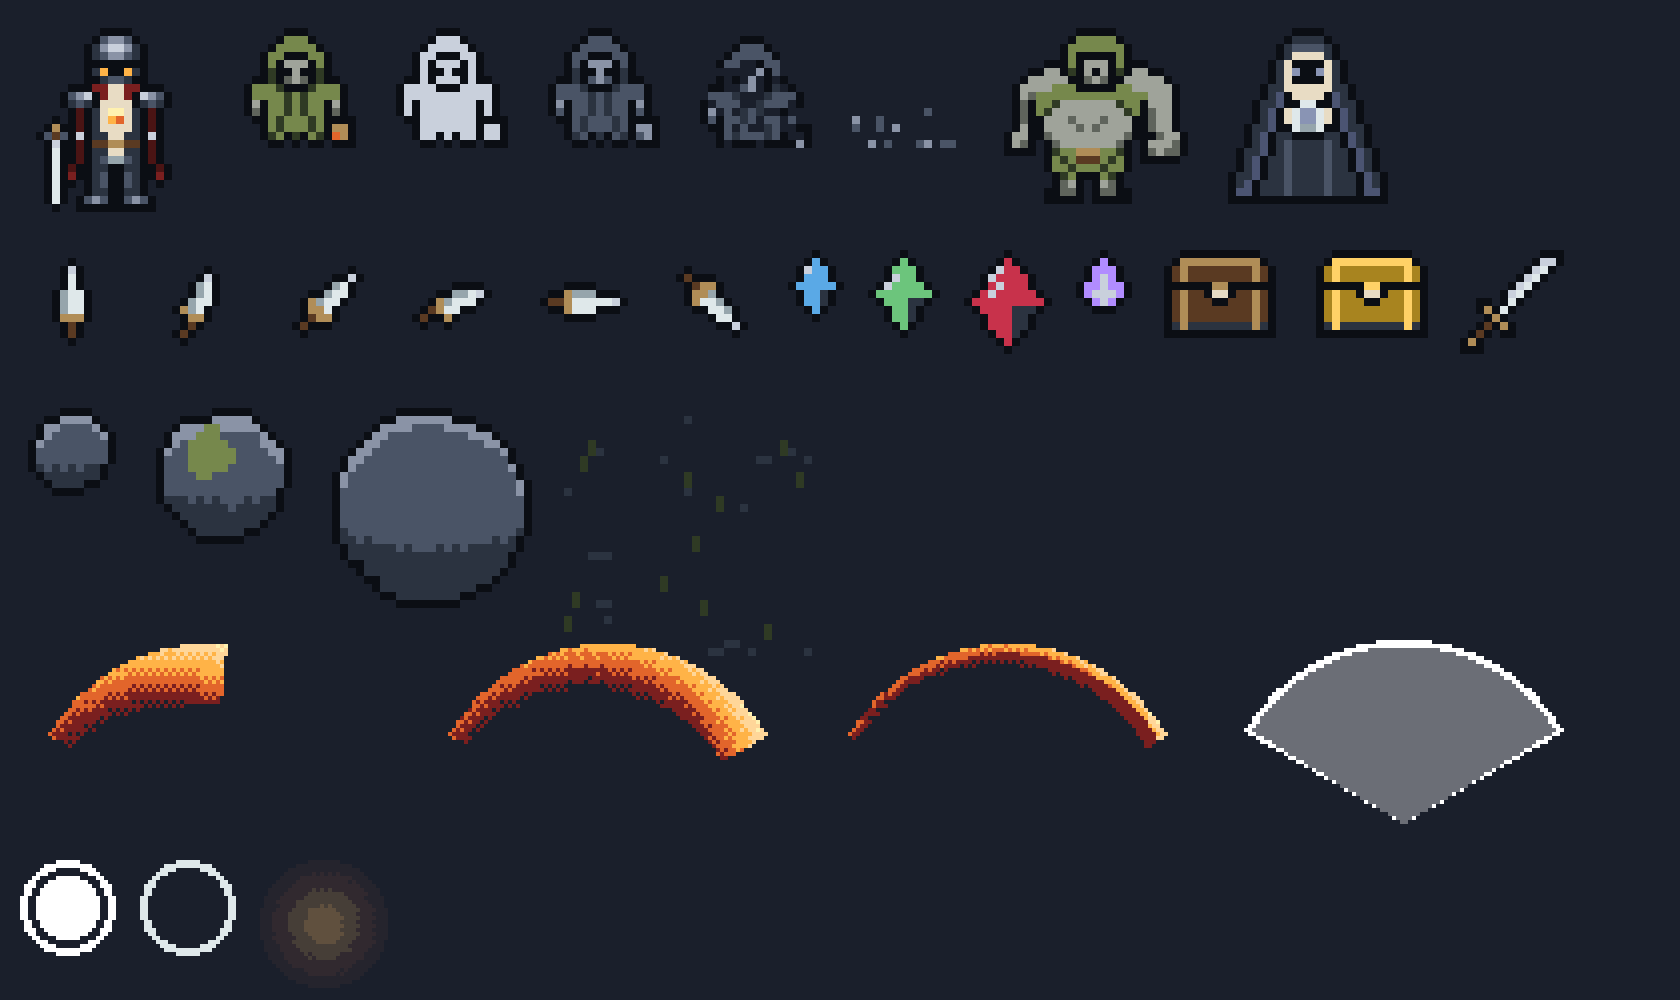
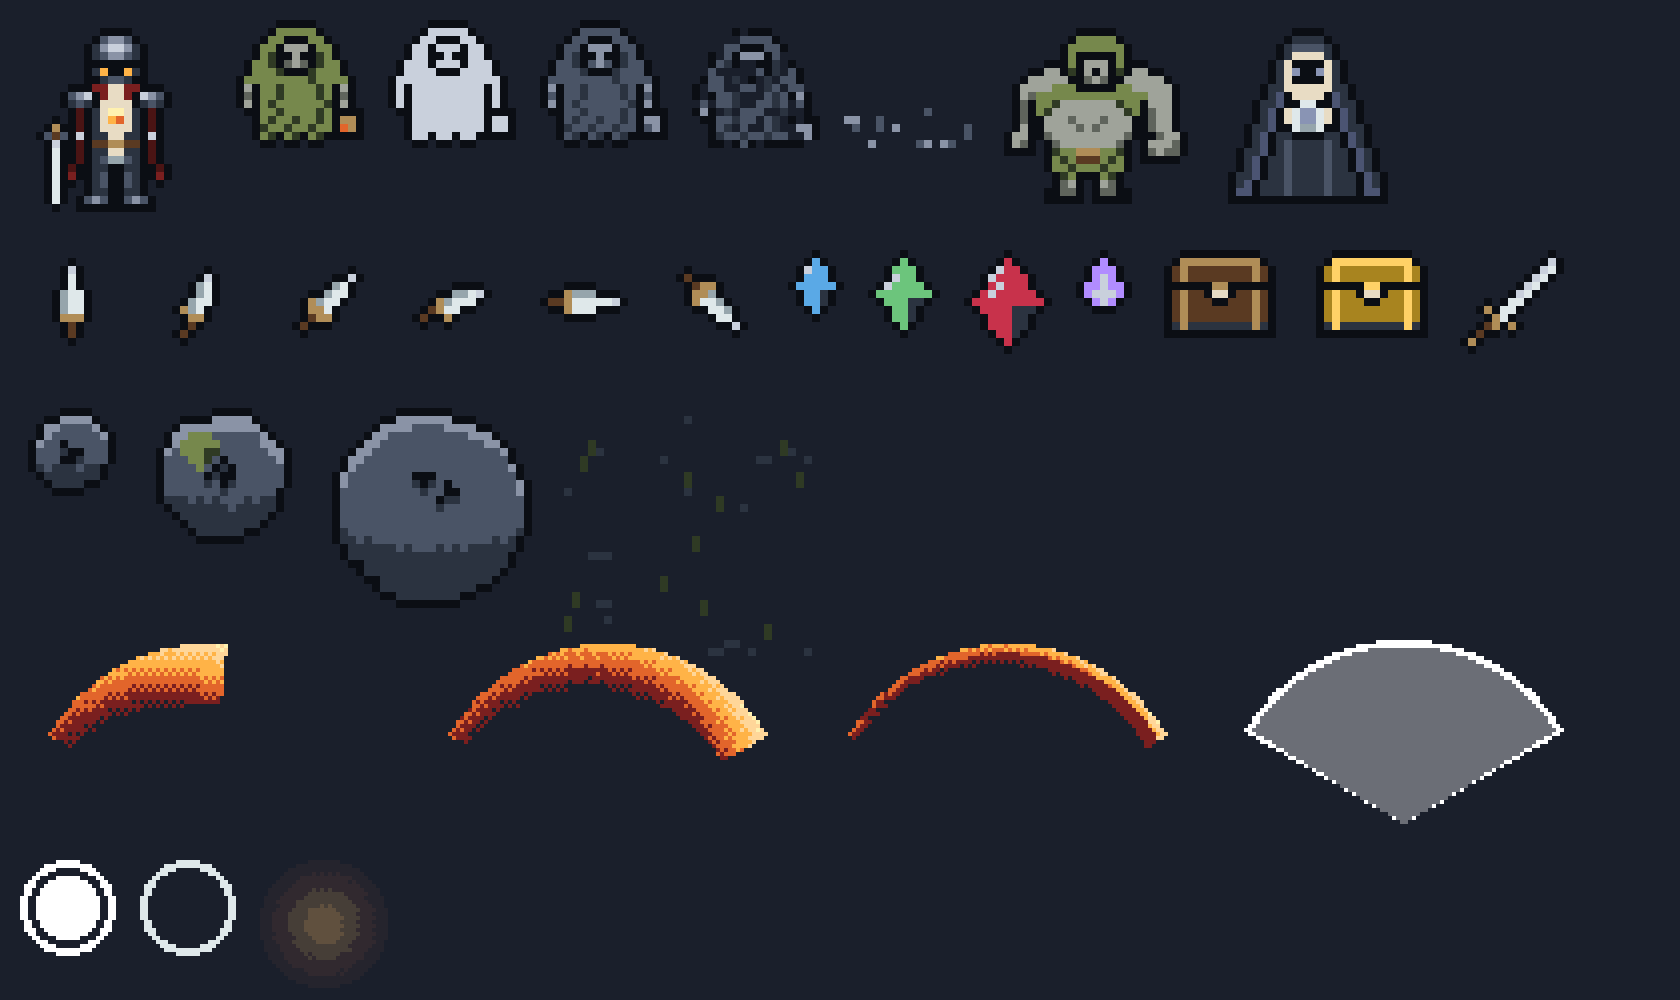
F-011 etapa 2: notas da produção no style card, amostras regeradas com a arte final e as capturas provisórias das cenas
Claude-Session: https://claude.ai/code/session_01W38UpsKkbYVQowxztRRzy8

diff --git a/design/arte/style-card.md b/design/arte/style-card.md
@@ -157,3 +157,20 @@ Geradas por `node scripts/arte/rodar.mjs amostras` a partir das grades e procedu
 - Grades e procedurais em `src/arte/` (sem Phaser, sem DOM); o Boot rasteriza tudo num `CanvasTexture` de 1024 × 1024 com `putImageData` e registra as molduras, como o atlas de formas de hoje (`src/cenas/render/atlas.ts`).
 - O render troca a moldura e o tint branco pela moldura do quadro certo; a horda (SpriteGPULayer) continua num lote só.
 - Só apresentação: nada em `src/logica`, no layout do estado nem nos hashes; textos só por `t(id)`.
+
+## 11. Notas da produção (etapa 2)
+
+O que a produção detalhou ou mudou em relação ao card aprovado, e por quê:
+
+- **Círculo de Sal e pulso em grãos de sal**, não num anel liso: o raio da aura e do pulso varia sem parar (nível, passivas, o pulso crescendo 96 pt), e um anel de pixel por raio não cabe no atlas. São cristais de 3 e 2 px com contorno (10 e 8 pt), um a cada 10 pt da circunferência (até 64 por anel), girando devagar, numa camada própria abaixo das facas e dos golpes.
+- **Brilho do telegrafo nos médios (RE4)**: o corpo troca para o quadro de "inspirar" e uma silhueta branca do mesmo quadro fica por cima com alfa 1 − blend. O modo de tint SCREEN não serve: no SpriteGPULayer do Phaser 4.2.1 o modo é multiplicado por 255 no shader sem ter sido dividido antes.
+- **NEAREST depois do `refresh()`**: o Phaser reenvia o canvas com LINEAR a cada refresh (antialias ligado). Com o filtro certo, os modos GPU e Image saem idênticos pixel a pixel.
+- **Inimigos olham para o lado do Aldric** (a horda persegue): a regra depende só do estado do passo, então a imagem pausada não depende de quantos quadros o render desenhou.
+- **Oco Grande Coroado** (elite que a F-008 fez nascer nesta branch): 32 × 32 px (64 pt), o Oco Grande maior, de coroa de bronze, com andar, telegrafo e ataque. A cor de identidade é a dos elites da F-008 (`COR_DOS_ELITES`); o molde provisório dela continua valendo só para elite sem arte.
+- **Golpe e estocada em escala livre pelo alcance** (raio ÷ 64 pt; comprimento ÷ 96 pt): o único lugar com escala não inteira, num efeito que dura 8 passos; o ângulo segue a regra dos 16 passos.
+- **Partículas**: pool de 256 pelo passo (sem alocar e sem reciclar), pontos de 1 e 2 pt tingidos na cor exata da paleta: 3 faíscas Y/A por acerto da Espada e da Lâmina, 2 lascas S/H das Facas, 1 grão do Círculo, 4 grãos de cinza por morte, 10 faíscas em anel no aparo e uma brasa subindo a cada 5 passos do Frasco (a cada 2 no Apagar).
+- **Marcadores de status**: a estrela do atordoado a 2 pt por px; o cristal do Sal na grade fina (centenas de inimigos salgados ao mesmo tempo não podem cobrir os rostos). Os dois 12 pt acima do centro do corpo.
+- **HUD em células de 2 pt**: Graphics desenha a arte, o disco, o anel e o triângulo na grade (`src/cenas/pixel.ts`); ícones a 2 pt no HUD (28 pt) e a 4 pt no modal (56 pt dentro dos 64); o traço dos anéis dos botões vira 4 pt (os 3 pt arredondados para 2 células); o joystick usa máscaras de pixel do atlas, tingidas. O texto continua na fonte do sistema (E8).
+- **Tela de Acender**: o Aldric a 4 pt por px (96 pt) no lugar do logotipo, respirando, com a luz da brasa: a única exceção de escala fora dos efeitos, por ser uma ilustração de título.
+- **Chão**: TileSprite com a textura de 64 × 64 px (16 ladrilhos), a 2 pt por px; na costura do mapa (1.170 pt, não múltiplo de 128) o padrão salta uma vez, sem efeito na leitura.
+- **Animações**: a massa anda em 2 quadros, os médios em 2 mais telegrafo e ataque; o Aldric respira, anda em 4, esquiva (agachado, rolando na capa, agachado) com 2 rastros, apara, bebe o Frasco e ajoelha antes de virar cinza; o acerto dura 3 passos.
